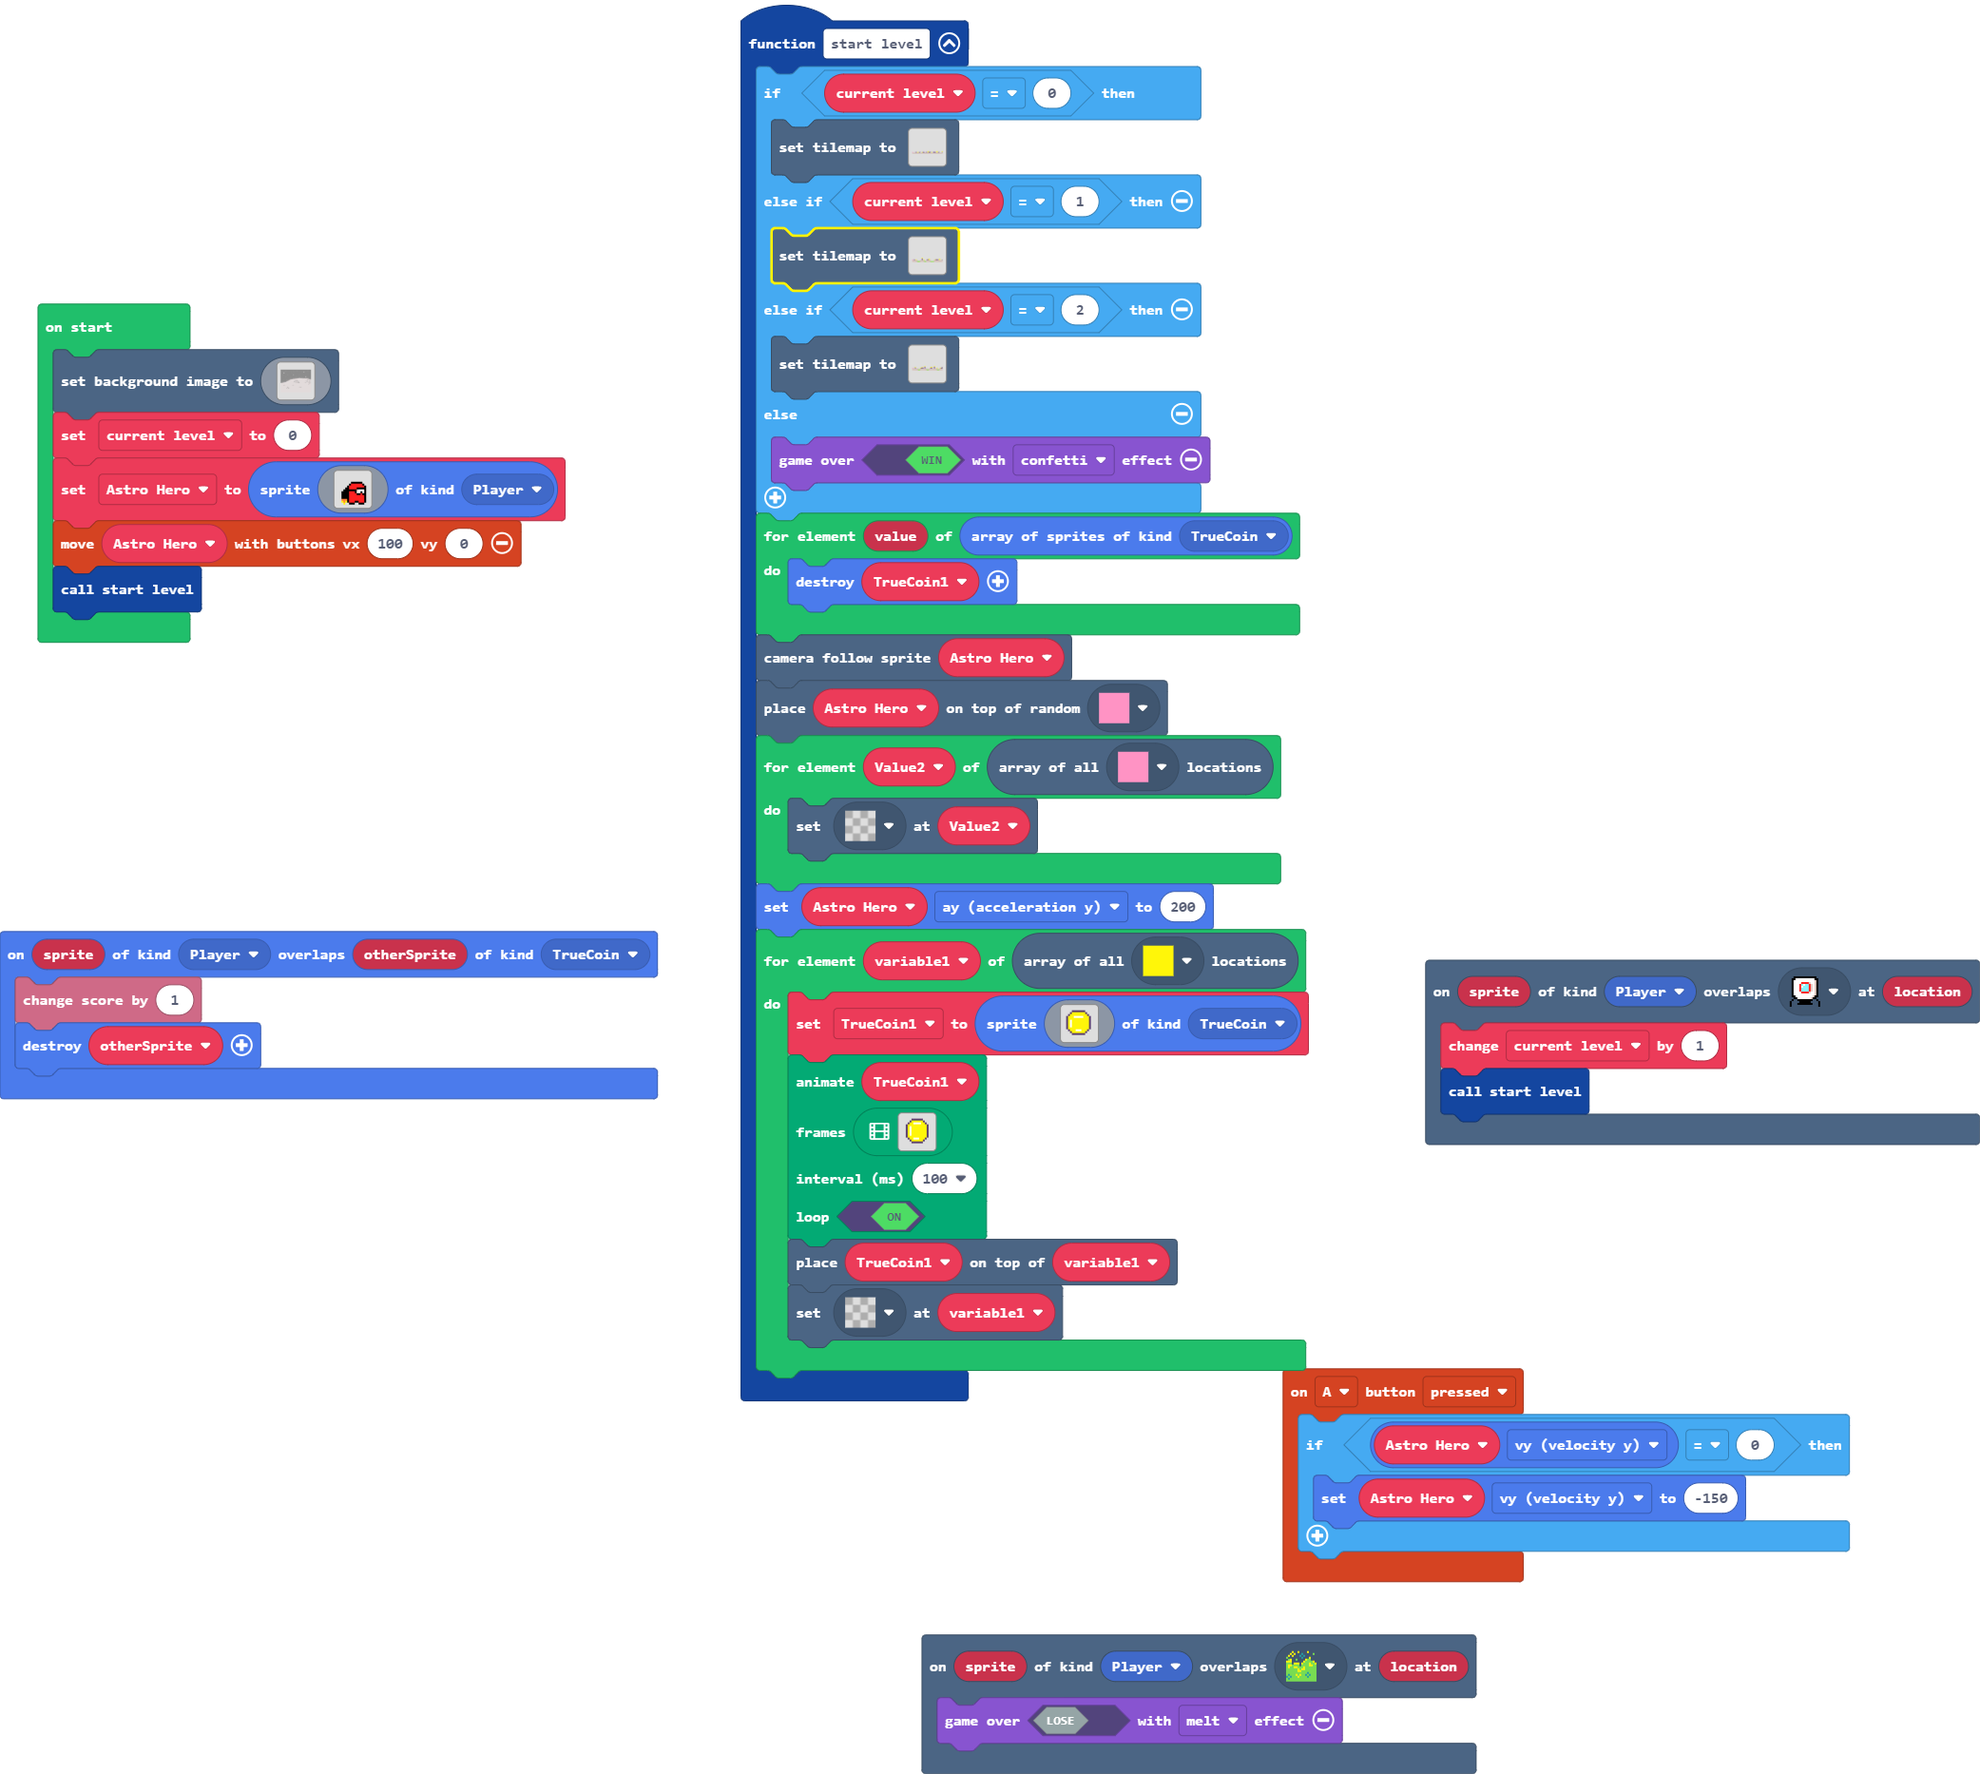
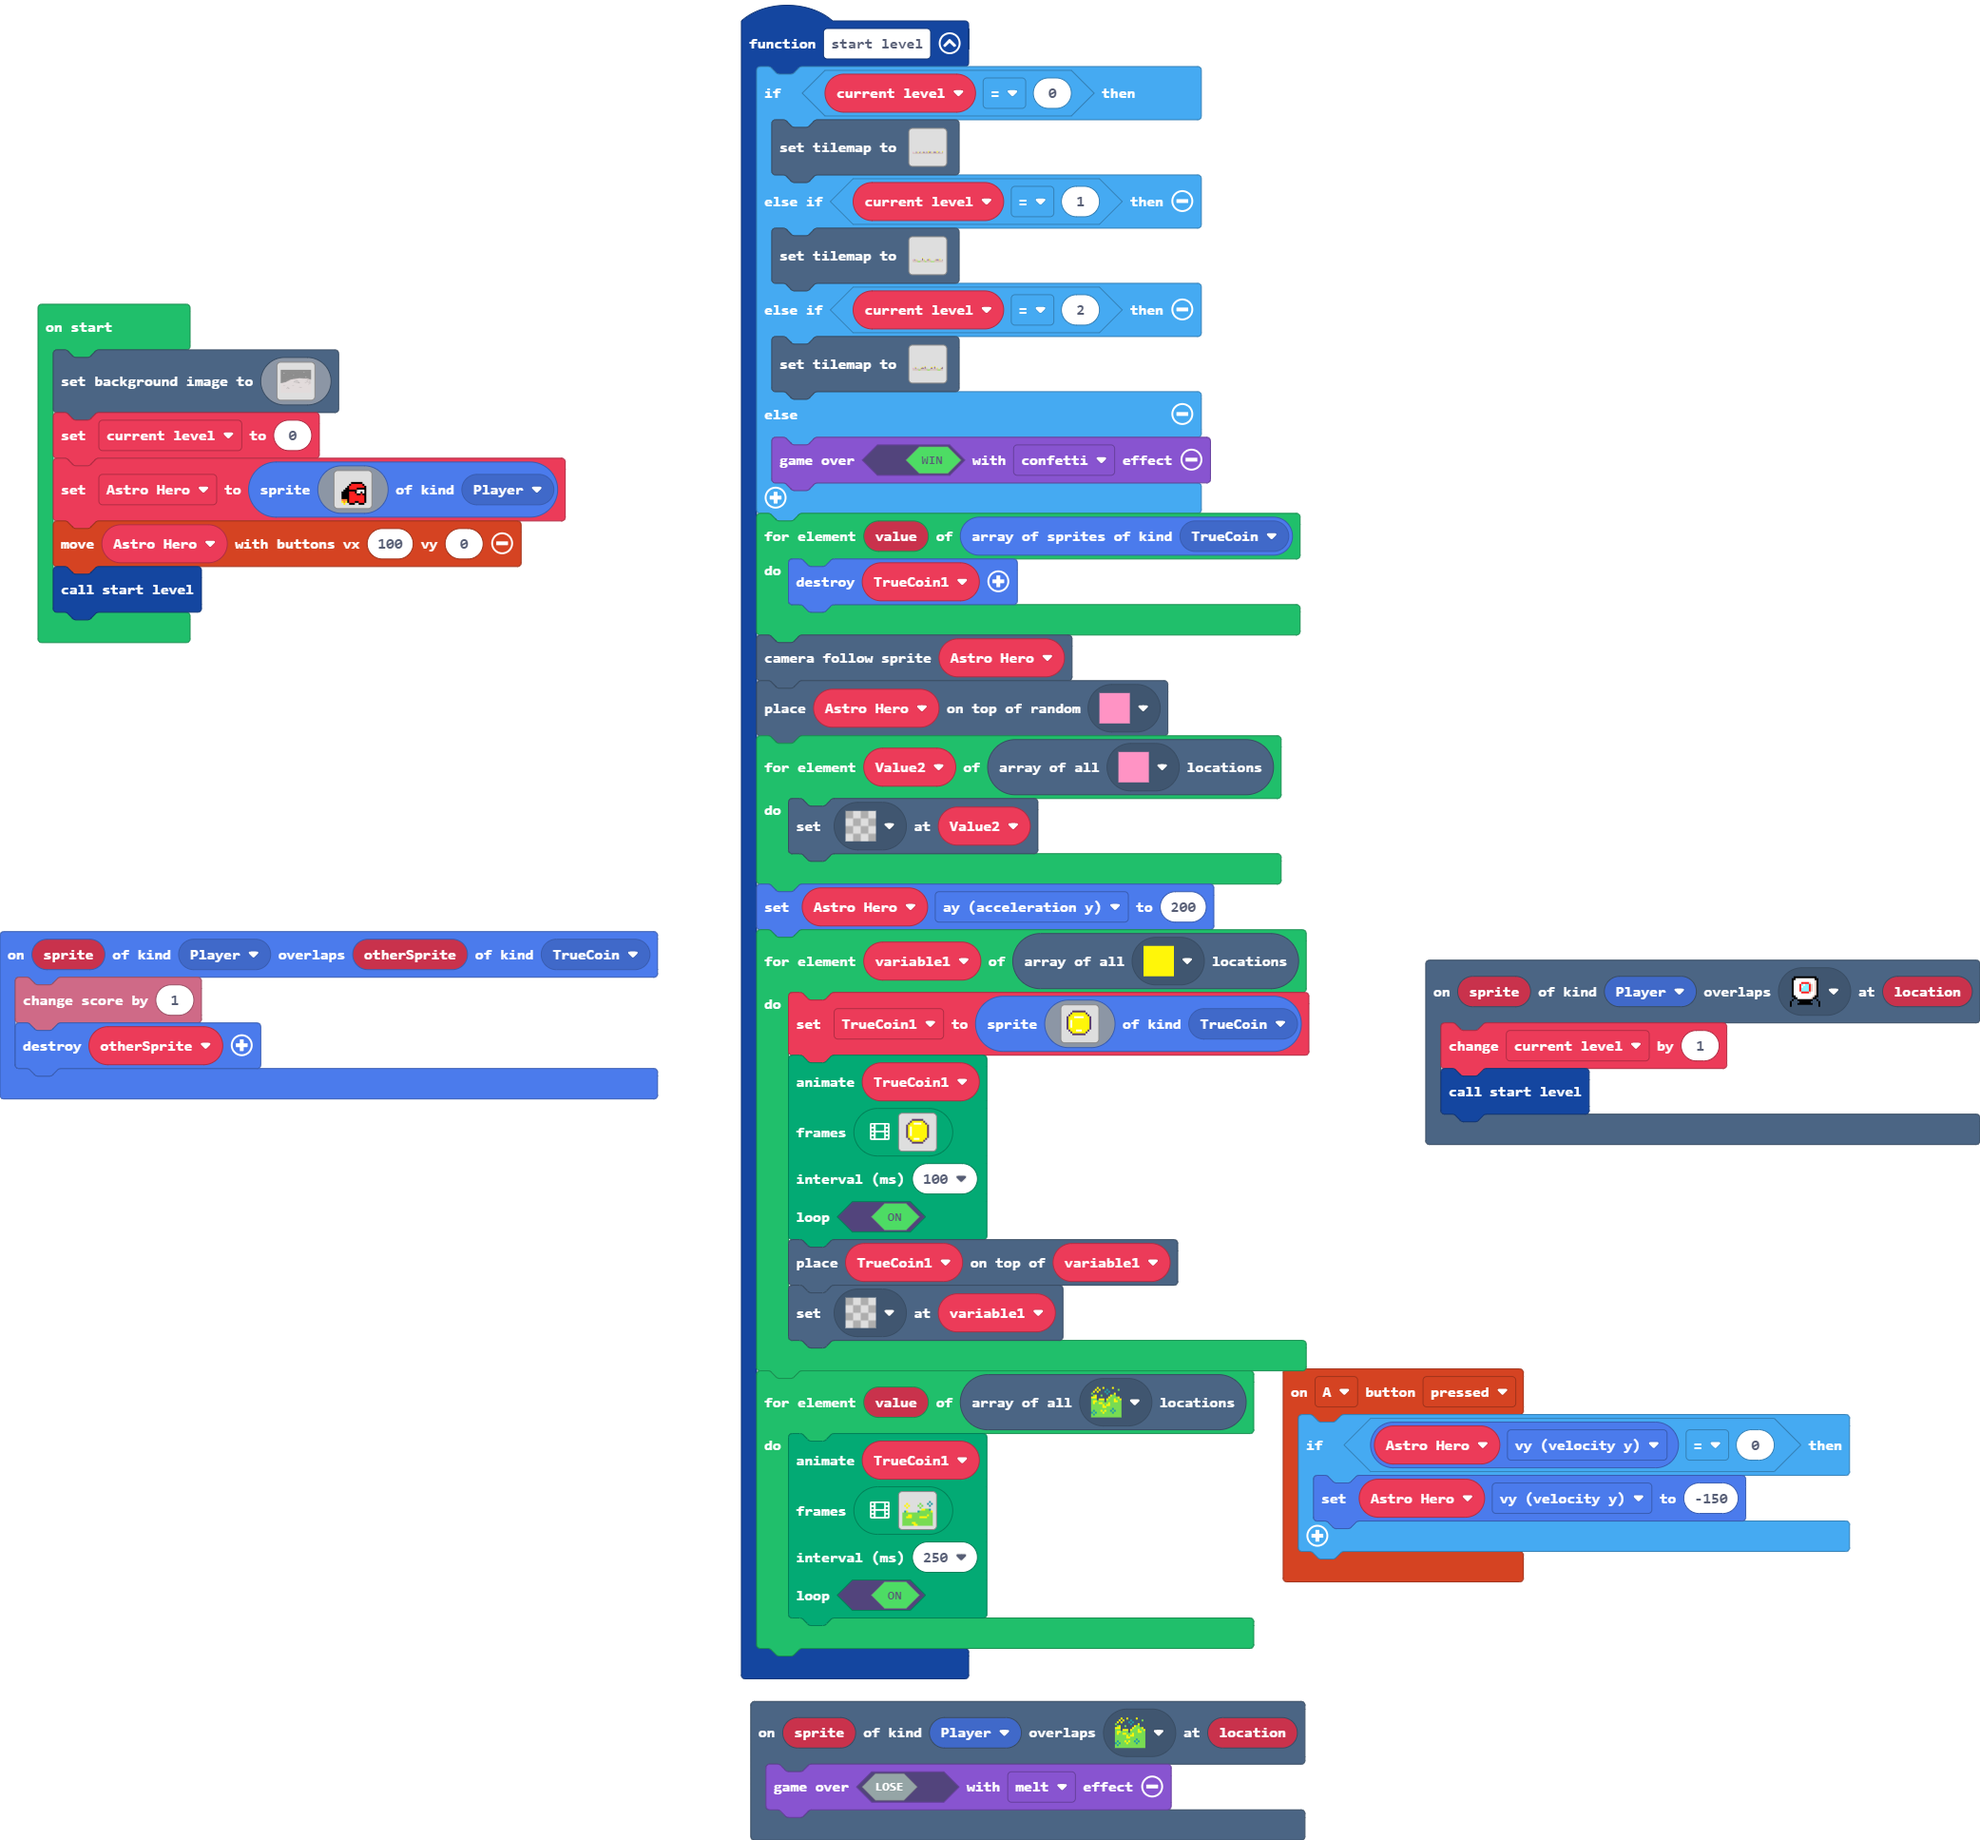
Update main.blocks, main.ts

diff --git a/main.ts b/main.ts
@@ -42,7 +42,7 @@ function start_level () {
             ...................................
             `, [myTiles.transparency16,myTiles.tile7,myTiles.tile1,myTiles.tile2,myTiles.tile3,myTiles.tile8,myTiles.tile10,myTiles.tile11,myTiles.tile12,myTiles.tile13,myTiles.tile14,myTiles.tile15,myTiles.tile9,myTiles.tile16], TileScale.Sixteen))
     } else if (current_level == 2) {
[2 lines of base64/hex data omitted]
             ...................................
             ...................................
             ...................................
@@ -57,8 +57,8 @@ function start_level () {
             ...................................
             ..............2..........2.........
             ...2......222.2......22..2.......22
-            2222222..22222222..2222222222..2222
-            ......2..2......2..2........2..2...
+            2222222..22222222...222222222...222
+            ......2..2......2...2.......2......
             `, [myTiles.transparency16,myTiles.tile2,myTiles.tile3,myTiles.tile7,myTiles.tile10,myTiles.tile11,myTiles.tile12,myTiles.tile13,myTiles.tile14,myTiles.tile15,myTiles.tile4,myTiles.tile5,myTiles.tile8,myTiles.tile9,myTiles.tile16,myTiles.tile17], TileScale.Sixteen))
     } else {
         game.over(true, effects.confetti)
@@ -252,6 +252,116 @@ function start_level () {
         )
         tiles.placeOnTile(TrueCoin1, variable1)
         tiles.setTileAt(variable1, myTiles.transparency16)
+    }
+    for (let value of tiles.getTilesByType(myTiles.tile15)) {
+        animation.runImageAnimation(
+        TrueCoin1,
+        [img`
+            . . . . . . . . . . . . . . . . 
+            . . . . . . . . . . . . . . . . 
+            . . . . . . . . . . . . . . . . 
+            . . . . . . . . . . . . . . 6 . 
+            . . 5 . . . . . . 7 . . . 6 . 6 
+            . 5 . 5 . . . . 7 . 7 . . . 6 . 
+            . . 5 . . . . . . 7 . . . . . . 
+            . . . . . . . . . . 5 5 7 7 6 . 
+            . 6 5 . . . . . 6 7 7 7 7 7 7 5 
+            7 7 7 7 7 7 7 7 7 7 7 7 7 7 7 7 
+            7 7 7 5 5 7 7 7 7 7 7 7 7 5 7 7 
+            7 7 5 5 5 7 7 7 7 5 5 5 5 7 7 7 
+            7 7 7 7 7 7 7 7 7 7 7 7 7 7 7 7 
+            7 7 7 7 7 7 7 7 7 7 7 7 7 7 7 7 
+            7 7 7 7 7 5 5 7 7 7 7 7 7 7 7 7 
+            7 7 7 7 7 7 5 5 7 7 7 7 7 7 7 7 
+            `,img`
+            . . . . . . . . . . . . . . . . 
+            . . . . . . . . . . . . . . . . 
+            . . . . . . . . . 7 . . . . 6 . 
+            . . 5 . . . . . 7 . 7 . . 6 . 6 
+            . 5 . 5 . . . . . 7 . . . . 6 . 
+            . . 5 . . . . . . 6 7 7 7 6 5 . 
+            . . . . . . . . 6 7 7 7 7 7 7 5 
+            6 6 5 . . . 5 . 7 7 7 7 7 7 7 7 
+            7 7 7 7 7 7 7 7 7 7 7 5 5 5 7 7 
+            7 7 5 5 5 7 7 7 7 5 5 5 7 7 7 7 
+            7 7 7 7 7 7 7 7 7 7 7 7 7 7 7 7 
+            7 7 7 7 7 7 7 7 7 7 7 7 7 7 7 7 
+            7 7 7 7 7 5 5 5 5 7 7 7 7 7 7 7 
+            7 7 7 7 7 7 7 7 5 7 7 7 7 7 7 7 
+            7 7 7 7 7 7 7 7 7 7 7 7 7 7 7 7 
+            7 7 7 7 7 7 7 7 7 7 7 7 7 7 7 7 
+            `,img`
+            . . . . . . . . . . . . . . . . 
+            . . . . . . . . . . . . . . . . 
+            . . . . . . . . . 7 . . . . 6 . 
+            . . 5 . . . . . 7 . 7 . . 6 . 6 
+            . 5 . 5 . . . . . 7 . . . . 6 . 
+            . . 5 . . . . . . . . . . . . . 
+            . . . . . . . . . 6 7 7 7 6 5 . 
+            . . . . . . . . 6 7 7 7 7 7 7 5 
+            6 6 5 . . . 5 7 7 7 7 7 7 7 7 7 
+            6 7 7 7 7 7 7 7 7 7 7 7 5 5 7 7 
+            7 7 7 5 5 7 7 7 7 5 5 5 5 7 7 7 
+            7 7 5 7 7 7 7 7 7 7 7 7 7 7 7 7 
+            7 7 7 7 7 7 7 7 7 7 7 7 7 7 7 7 
+            7 7 7 7 7 5 5 5 7 7 7 7 7 7 7 7 
+            7 7 7 7 7 7 7 5 5 7 7 7 7 7 7 7 
+            7 7 7 7 7 7 7 7 7 7 7 7 7 7 7 7 
+            `,img`
+            . . . . . . . . . . . . . . . . 
+            . . . . . . . . . . . . . . . . 
+            . . . . . . . . . 7 . . . . 6 . 
+            . . 5 . . . . . 7 . 7 . . 6 . 6 
+            . 5 . 5 . . . . . 7 . . . . 6 . 
+            . . 5 . . . . . . 6 7 7 7 6 5 . 
+            . . . . . . . . 6 7 7 7 7 7 7 5 
+            6 6 5 . . . 5 . 7 7 7 7 7 7 7 7 
+            7 7 7 7 7 7 7 7 7 7 7 5 5 5 7 7 
+            7 7 5 5 5 7 7 7 7 5 5 5 7 7 7 7 
+            7 7 7 7 7 7 7 7 7 7 7 7 7 7 7 7 
+            7 7 7 7 7 7 7 7 7 7 7 7 7 7 7 7 
+            7 7 7 7 7 5 5 5 5 7 7 7 7 7 7 7 
+            7 7 7 7 7 7 7 7 5 7 7 7 7 7 7 7 
+            7 7 7 7 7 7 7 7 7 7 7 7 7 7 7 7 
+            7 7 7 7 7 7 7 7 7 7 7 7 7 7 7 7 
+            `,img`
+            . . . . . . . . . . . . . . . . 
+            . . . . . . . . . . . . . . . . 
+            . . . . . . . . . . . . . . . . 
+            . . . . . . . . . . . . . . 6 . 
+            . . 5 . . . . . . 7 . . . 6 . 6 
+            . 5 . 5 . . . . 7 . 7 . . . 6 . 
+            . . 5 . . . . . . 7 . . . . . . 
+            . . . . . . . . . . 5 5 7 7 6 . 
+            . 6 5 . . . . . 6 7 7 7 7 7 7 5 
+            7 7 7 7 7 7 7 7 7 7 7 7 7 7 7 7 
+            7 7 7 5 5 7 7 7 7 7 7 7 7 5 7 7 
+            7 7 5 5 5 7 7 7 7 5 5 5 5 7 7 7 
+            7 7 7 7 7 7 7 7 7 7 7 7 7 7 7 7 
+            7 7 7 7 7 7 7 7 7 7 7 7 7 7 7 7 
+            7 7 7 7 7 5 5 7 7 7 7 7 7 7 7 7 
+            7 7 7 7 7 7 5 5 7 7 7 7 7 7 7 7 
+            `,img`
+            . . . . . . . . . . . . . . . . 
+            . . . . . . . . . . . . . . . . 
+            . . . . . . . . . . . . . . . . 
+            . . . . . . . . . . . . . . . . 
+            . . . . . . . . . . . . . . . . 
+            . . . . . . . . . . . . . . . . 
+            . . . . . . . . . . . . . . . . 
+            . . . . . . . . . . . . . . . . 
+            . . . . . . . . . . . . . . . . 
+            . . . . . . . . . . . . . . . . 
+            . . . . . . . . . . . . . . . . 
+            . . . . . . . . . . . . . . . . 
+            . . . . . . . . . . . . . . . . 
+            . . . . . . . . . . . . . . . . 
+            . . . . . . . . . . . . . . . . 
+            . . . . . . . . . . . . . . . . 
+            `],
+        250,
+        true
+        )
     }
 }
 controller.A.onEvent(ControllerButtonEvent.Pressed, function () {
